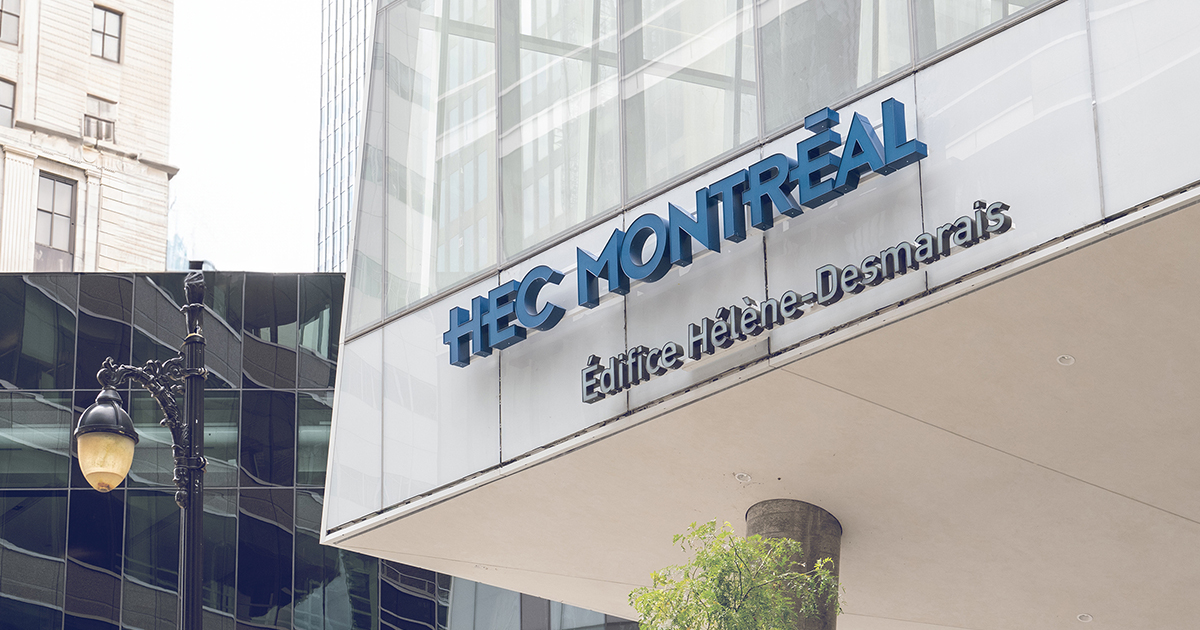
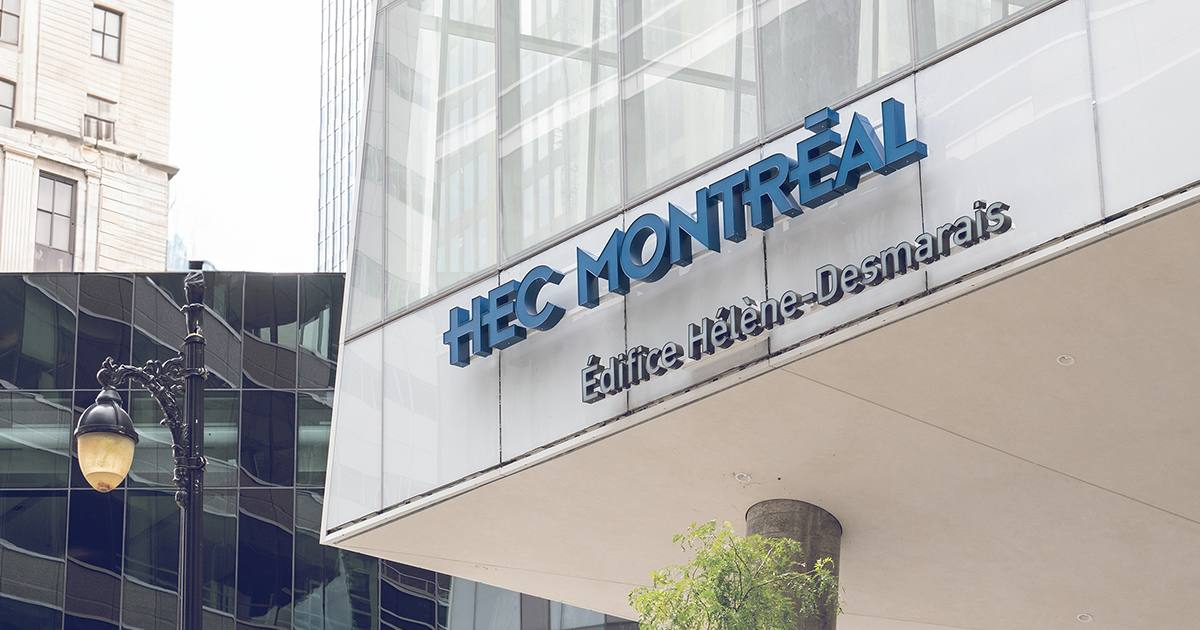
Rend le contenu visible sans JavaScript, agrandit les cibles tactiles et allege l'image du bandeau
- Masquage du contenu (.reveal) active seulement sous la classe js, avec filet de securite sur le haut de page
- Zones de clic du logo et de l'e-mail du pied de page portees a 45 et 42 px
- hec-photo.jpg recompressee de 551 a 87 Ko, memes dimensions

Changed region(s): [[0.5242, 0.8143, 0.7092, 1.0], [0.0617, 0.754, 0.0925, 0.7841]]

diff --git a/index.html b/index.html
@@ -2,6 +2,7 @@
 <html lang="fr">
 <head>
   <meta charset="UTF-8" />
+  <script>document.documentElement.classList.add('js');</script>
   <meta name="viewport" content="width=device-width, initial-scale=1.0"/>
   <meta name="description" content="Victor Loiseau, bachelier mention Bien, étudiant en année préparatoire du BBA à HEC Montréal."/>
   <meta property="og:title" content="Victor Loiseau"/>
@@ -109,12 +110,12 @@
 
     .wrap { max-width: var(--container); margin: 0 auto; padding: 0 24px; }
 
-    .reveal {
+    .js .reveal {
       opacity: 0;
       transform: translateY(14px);
       transition: opacity var(--duration-slow) var(--ease-out), transform var(--duration-slow) var(--ease-out);
     }
-    .reveal.in { opacity: 1; transform: translateY(0); }
+    .js .reveal.in { opacity: 1; transform: translateY(0); }
 
     /* cascade discrete plutot qu'un fade uniforme partout: chaque item d'une liste entre avec un leger decalage */
     .timeline-item.reveal:nth-child(2) { transition-delay: 70ms; }
@@ -133,7 +134,7 @@
     .link-card.reveal:nth-child(6) { transition-delay: 300ms; }
 
     @media (prefers-reduced-motion: reduce) {
-      .reveal { opacity: 1; transform: none; transition: none; }
+      .js .reveal { opacity: 1; transform: none; transition: none; }
       .nav-menu { transition: none; }
       .globe-wrap { transition: none; }
       .link-card:hover .link-arrow { transform: none; }
@@ -154,7 +155,7 @@
       display: flex; align-items: center; justify-content: space-between;
       height: 64px;
     }
-    .nav-name { font-weight: 700; font-size: 0.95rem; color: var(--ink); text-decoration: none; }
+    .nav-name { font-weight: 700; font-size: 0.95rem; color: var(--ink); text-decoration: none; display: inline-block; padding: 12px 0; }
     .nav-links { display: flex; align-items: center; gap: 28px; }
     .nav-links a {
       font-size: 0.84rem; font-weight: 500; color: var(--mid); text-decoration: none;
@@ -479,7 +480,7 @@
     }
     .footer-name { font-size: 0.86rem; color: var(--ink); font-weight: 600; }
     .footer-meta { font-size: 0.8rem; color: var(--muted); }
-    .footer-meta a { color: var(--muted); text-decoration: underline; text-underline-offset: 2px; transition: color var(--duration-base) ease-out; }
+    .footer-meta a { color: var(--muted); display: inline-block; padding: 12px 0; text-decoration: underline; text-underline-offset: 2px; transition: color var(--duration-base) ease-out; }
 
     @media (max-width: 620px) {
       .footer { flex-direction: column; text-align: center; }
@@ -785,6 +786,8 @@
       });
     }, { threshold: 0.1, rootMargin: '0px 0px -30px 0px' });
     revealEls.forEach(el => revealObserver.observe(el));
+    // filet de securite : le haut de page s'affiche toujours, meme si l'observateur est bloque
+    setTimeout(() => document.querySelectorAll('.hero .reveal:not(.in)').forEach(el => el.classList.add('in')), 1500);
   }
 
   const navToggle = document.getElementById('navToggle');
